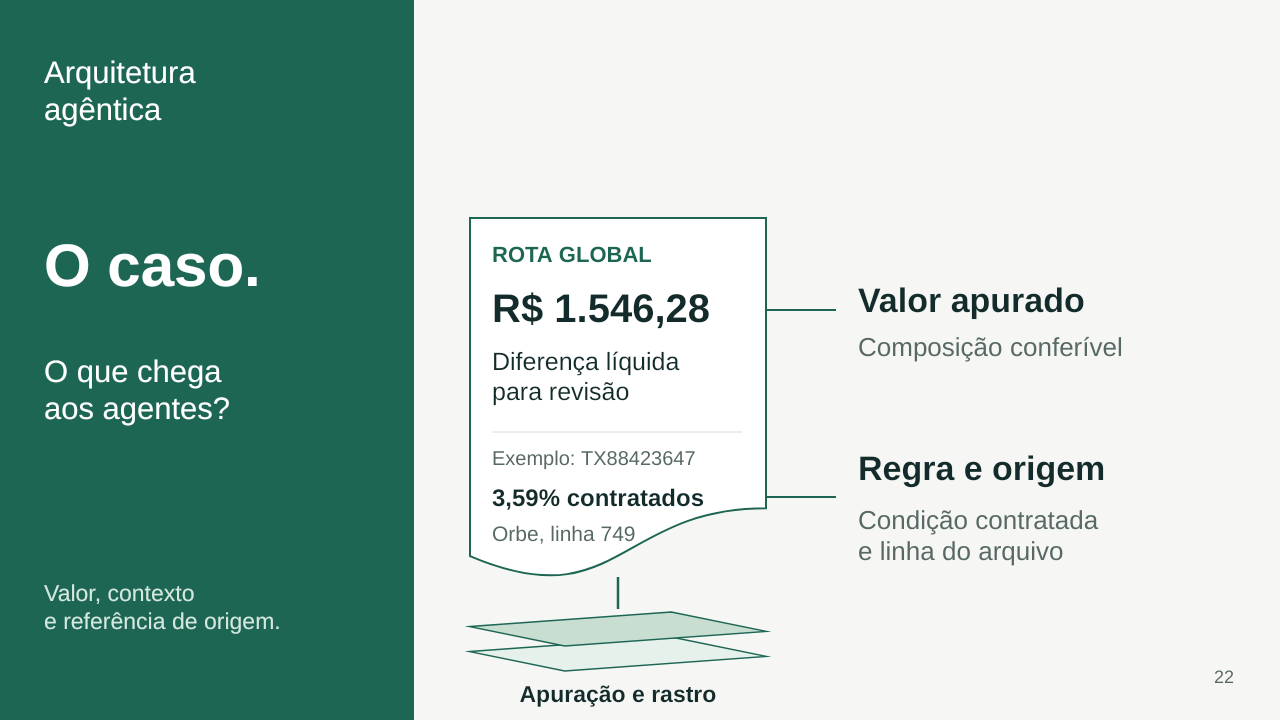
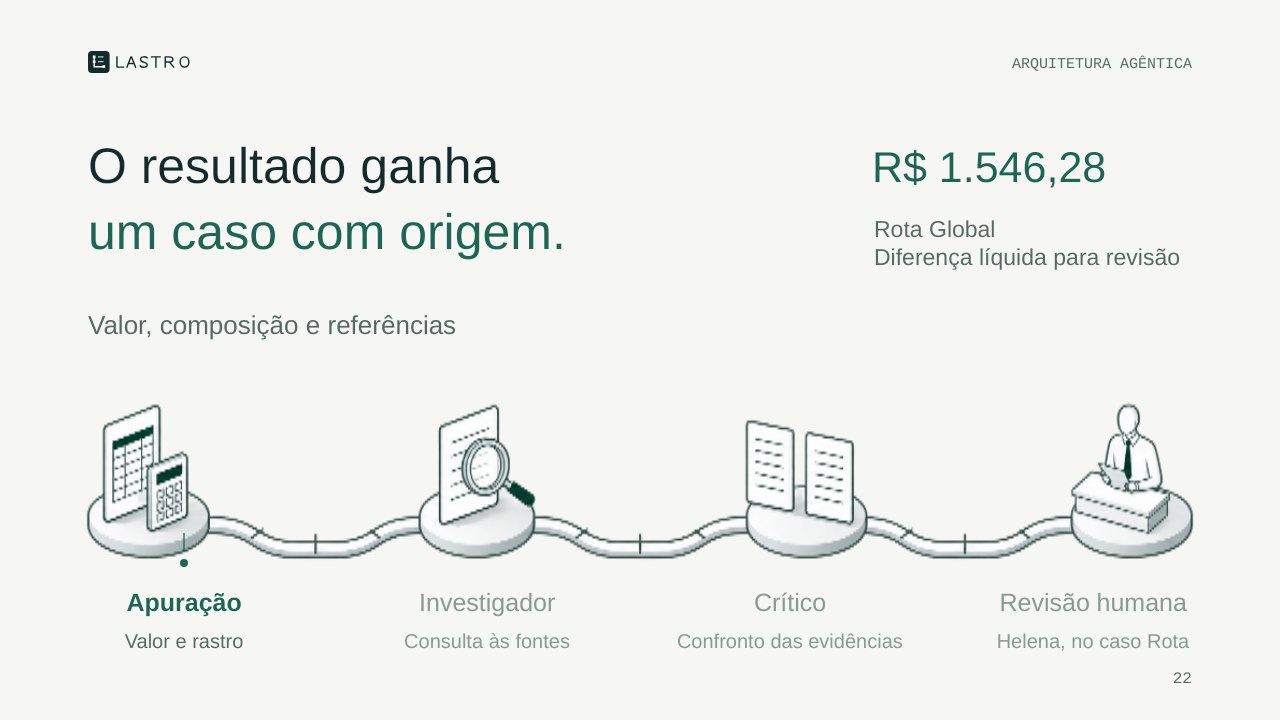
fix(apresentacao): aplicar composição editorial e abstrações visuais da Barte

diff --git a/docs/apresentacao/direcao-visual-canva.md b/docs/apresentacao/direcao-visual-canva.md
@@ -48,18 +48,45 @@ As referências Barte continuam sendo referências de comunicação, sem constit
 - **Cenas diferentes para perguntas diferentes.** Fotografia situa uma realidade; camadas explicam dependência; percurso acompanha transformação; captura de produto comprova comportamento. Não aplicar o mesmo fluxograma a todos os slides.
 - **Fonte e limite perto da evidência.** Valor preparado para revisão continua com esse qualificador. O destaque indica foco da apresentação, sem simular execução ou aprovação.
 
-## 5. Trecho de desenvolvimento revisado
+## 5. Correção visual após a rejeição da amostra
 
-Os avanços **21–25** recebem uma primeira aplicação desta direção. Eles conservam o total de 26 slides e as notas técnicas existentes. Os slides 0–20 ficam fora desta revisão, incluindo edições manuais no documento.
+A amostra registrada em `baa2d59` foi rejeitada pela Lorena. Ela concentrou peso numa faixa verde larga, usou títulos pesados, letras em círculos para os agentes e repetiu um cartão grande do caso. Esses recursos se afastaram da leitura editorial e do tratamento das ilustrações estudados na Barte. A presença de camadas e progressão, isoladamente, não resolveu a composição.
+
+A revisão seguinte mantém do Canva a continuidade da explicação. Para o tratamento visual, dá prioridade ao que foi documentado nas peças Barte: fundo claro, títulos regulares, destaque seletivo, linhas discretas e uma ilustração dominante. A faixa lateral e as letras em círculos foram retiradas. O valor da Rota aparece como evidência na entrada do caso, sem dominar todos os avanços.
+
+Os avanços **21–25** continuam formando o trecho de revisão. O total permanece em 26 slides e as notas técnicas são conservadas. Os slides 0–20 ficam fora da alteração automática, incluindo edições manuais no documento.
 
 | Avanço | Pergunta da fala | Representação |
 |---|---|---|
-| 21 | Em que a investigação se apoia? | Entrada explícita na arquitetura agêntica e planos de fontes, regras e apuração |
-| 22 | O que chega aos agentes? | Caso Rota Global ampliado, sustentado pela apuração e pelo rastro |
-| 23 | Como o investigador busca contexto? | Mesmo caso, investigador e consulta às fontes cadastradas |
-| 24 | Quem confronta a interpretação? | Acréscimo do crítico, com entradas de interpretação, evidências e mesmo pacote |
-| 25 | Quem decide? | Acréscimo da Helena como responsável pelo caso Rota, recebendo o parecer experimental |
+| 21 | Em que a investigação se apoia? | Título explícito de arquitetura agêntica, pilha ilustrada de fontes, regras e apuração, com legendas externas |
+| 22 | O que chega aos agentes? | Início do percurso, valor da Rota como evidência e identificação do resultado que ganha um caso |
+| 23 | Como o investigador busca contexto? | Foco na estação de investigação, com relação de consulta e retorno de evidências |
+| 24 | Quem confronta a interpretação? | Foco no crítico; legenda reúne mesmo caso, interpretação e evidências recebidas |
+| 25 | Quem decide? | Foco na revisão humana; Helena recebe caso e parecer, identificado como experimental |
 
-As figuras são diagramas conceituais editáveis. Não são capturas de interface nem registros de uma execução do modelo. O caso usa dados do pacote publicado em `b43e80e`; não demonstra cobrança enviada, recuperação realizada ou qualidade semântica validada da revisão agêntica. O crítico examina o material recebido, sem uma nova ligação de consulta às fontes.
+O percurso mantém as quatro funções visíveis como contexto, mudando o foco por avanço. A ligação ilustrada indica continuidade do caso. Os rótulos fixam o significado técnico; a imagem não documenta uma fila, protocolo ou chamada de API. A figura humana é uma representação genérica da função de revisão, sem retratar Helena.
 
-Fonte de reprodução: [arquitetura-cenas.mjs](slides/arquitetura-cenas.mjs). A aplicação visual deste trecho serve para revisar a direção antes de estendê-la ao restante do deck.
+O caso usa dados do pacote publicado em `b43e80e`; não demonstra cobrança enviada, recuperação realizada ou qualidade semântica validada da revisão agêntica. O crítico examina o material recebido, sem uma nova ligação de consulta às fontes.
+
+## 6. Especificação visual aplicada ao trecho
+
+| Elemento | Decisão no Lastro | Função transferida da referência |
+|---|---|---|
+| Palco | Canvas 1280 × 720, fundo `#F6F7F4`, margens principais de 88px | Distribuir texto e ilustração com espaço entre os grupos |
+| Marca e seção | Marca original de 105 × 22px; seção discreta de 15px | Situar o material sem competir com o argumento |
+| Título | Arial regular de 50px, duas linhas com 66px entre origens | Tese curta e leve, acompanhando a fala |
+| Destaque | Segunda linha em verde `#1E6654` | Ênfase seletiva com a identidade própria do Lastro |
+| Explicação | Texto de 24–27px em `#586964` | Apoio subordinado ao título e ao objeto visual |
+| Fundação | Pilha com espessura, separação e legendas externas | Tornar a dependência conceitual reconhecível |
+| Percurso | Ilustração compartilhada de quatro estações; ponto, legenda e relação em foco | Preservar orientação ao mudar a responsabilidade explicada |
+| Valor | R$ 1.546,28 na entrada do caso, com natureza e estado | Apresentar uma prova sem transformá-la em promessa de recuperação |
+
+Essas medidas são decisões do Lastro, não tokens extraídos ou uma reprodução do design system Barte. O reconhecimento da referência deve vir da forma de organizar a informação, sem copiar a marca, os desenhos ou as composições distintivas.
+
+## 7. Assets, edição e reprodução
+
+As duas ilustrações são originais, produzidas com a ferramenta integrada `image_gen.imagegen`. A fundação usa [fundacao-lastro-v3.png](slides/assets/fundacao-lastro-v3.png). O percurso usa [percurso-caso-v3b.png](slides/assets/percurso-caso-v3b.png), refinado para ganhar contraste na redução. Os [prompts completos](slides/assets/prompts-v3.json) registram a geração e o refinamento. Nenhuma imagem Barte foi fornecida à geração ou inserida como asset do Lastro.
+
+As ilustrações são raster. Títulos, explicações, valores, legendas, pontos de foco e vínculos de consulta são objetos nativos editáveis. O enquadramento conserva a proporção dos arquivos. O desenho não representa uma captura de produto nem uma execução do modelo.
+
+Fonte de reprodução da revisão atual: [arquitetura-editorial.mjs](slides/arquitetura-editorial.mjs). A versão anterior [arquitetura-cenas.mjs](slides/arquitetura-cenas.mjs) fica como estudo histórico, substituído por esta revisão. A composição ainda está em desenvolvimento, sem aprovação estética presumida.

diff --git a/docs/apresentacao/slides/README.md b/docs/apresentacao/slides/README.md
@@ -37,11 +37,11 @@ Versão visual editável com 26 slides, correspondentes aos avanços 0 a 25 do [
 
 ## Composição
 
-Canvas 1280 × 720, proporção 16:9. Fundo claro e verde vêm dos tokens do Lastro. A tipografia é Arial. Os diagramas, textos e conectores são objetos nativos editáveis da apresentação. A marca Lastro usa os SVGs originais do repositório, com proporção preservada.
+Canvas 1280 × 720, proporção 16:9. Fundo claro e verde vêm dos tokens do Lastro. A tipografia é Arial. A marca Lastro usa os SVGs originais do repositório, com proporção preservada. Textos e conectores são nativos editáveis. Nos avanços 21–25, a fundação e o percurso usam ilustrações raster originais, com legendas e vínculos editáveis sobrepostos.
 
-Os avanços 21–25 receberam uma revisão representativa a partir da apresentação Canva fornecida pela Lorena e dos estudos de abstrações da Barte. O campo verde conduz a fala, as camadas explicam a fundação e o mesmo caso Rota Global permanece no desenho enquanto entram investigador, crítico e Helena. A [direção visual](../direcao-visual-canva.md) distingue observação e adaptação. Os slides 0–20 preservam sua composição anterior e ainda não passaram por essa revisão.
+Os avanços 21–25 receberam uma nova correção após a rejeição da composição com faixa verde e letras em círculos. A revisão atual aplica fundo claro, títulos regulares, destaque seletivo e ilustrações maiores, a partir dos estudos Barte. A continuidade da explicação observada no Canva permanece no percurso entre apuração, investigador, crítico e revisão humana. A [direção visual](../direcao-visual-canva.md) registra critérios, medidas, prompts e limites. Os slides 0–20 preservam sua composição anterior e ainda não passaram por essa revisão.
 
-Os slides são estados sucessivos da composição. Há um tópico principal por avanço, com destaque no assunto novo. A apuração acrescenta uma frente de cada vez; a arquitetura mantém as posições e acrescenta pacote do caso, investigador, crítico e decisão humana. Esta versão não configura animação automática entre posições.
+Os slides são estados sucessivos da composição. Há um tópico principal por avanço, com destaque no assunto novo. A apuração acrescenta uma frente de cada vez. Na arquitetura, o percurso conserva as quatro estações como contexto e muda o foco e as relações de apoio. Esta versão não configura animação automática entre posições.
 
 **Asset pendente:** a identificação “Tarvo” é texto provisório. Substituir pela logo confirmada, preservando sua posição entre os avanços 1 e 2. Helena aparece pelo nome, sem retrato atribuído a uma pessoa real.
 
@@ -51,7 +51,7 @@ O prazo de oito dias úteis descreve o processo relatado no case. Os valores da 
 
 - A apuração produz os valores e o rastro que compõem o pacote do caso.
 - O investigador recebe o pacote e consulta fontes cadastradas por ferramentas de leitura.
-- O crítico recebe o mesmo pacote, a interpretação e as evidências recuperadas. O canal tracejado destaca a entrada do pacote; o crítico não recebe uma conexão de busca às fontes nesta implementação.
+- O crítico recebe o mesmo pacote, a interpretação e as evidências recuperadas. A legenda sobre a estação explicita essas entradas; o crítico não recebe uma conexão de busca às fontes nesta implementação.
 - O parecer segue para revisão e decisão de Helena ou Comercial, conforme a responsabilidade do caso. A investigação preserva os valores da apuração.
 - O destaque verde indica o tópico atual. O slide final explicita que o parecer é experimental e a decisão financeira cabe ao responsável.
 
@@ -80,6 +80,10 @@ Na revisão da arquitetura também foram espelhadas duas edições manuais do do
 
 [solucao-arquitetura.mjs](solucao-arquitetura.mjs) exporta `buildContinuation` para continuar na mesma sessão, depois dos dez slides de abertura. Executar em lotes consecutivos, aguardando cada chamada terminar: `[10, 11, 12, 13, 14]`, `[15, 16, 17, 18]`, `[19, 20, 21]` e `[22, 23, 24, 25]`. Usar `input.indices` para o lote e, no primeiro, `input.logoPath` apontando para `web/public/brand/lastro-logo.svg`. O callback preserva qualquer slide existente e recusa lacunas de numeração. Reparos posteriores usam os IDs inspecionados da mesma apresentação.
 
-[arquitetura-cenas.mjs](arquitetura-cenas.mjs) exporta `reviseArchitectureScenes`, a revisão dos avanços 21–25 no documento existente. O callback recebe `input.indices`, valida os IDs dos slides e substitui apenas suas formas, conservando notas e quantidade de slides. Executar em lotes consecutivos `[21, 22, 23]` e `[24, 25]`, sempre na mesma sessão. Os IDs são específicos dessa apresentação: se a ordem mudar ou surgirem imagens, reinspecionar antes de adaptar a validação. Não aplicar esse callback a outro deck sem revisão. A fonte anterior continua registrada no histórico.
+[arquitetura-editorial.mjs](arquitetura-editorial.mjs) exporta `reviseEditorialArchitecture`, a correção visual atual dos avanços 21–25. Passar `input.indices` e `input.logoPath` apontando para a marca original do Lastro. Executar em lotes pequenos, aguardando cada conclusão, sempre na sessão existente. O callback valida IDs e preserva os demais slides e suas notas. Imagens externas a esta revisão interrompem a substituição para reinspeção. Os IDs são específicos desse documento; adaptar a validação somente depois de inspecionar outro deck.
+
+Os PNGs originais estão em `assets/`, com [prompts completos](assets/prompts-v3.json). Na sessão, são incorporados de forma autocontida em um elemento SVG para manter os bytes disponíveis após reabrir a apresentação. Isso não transforma o conteúdo em vetor. Não há dependência de arquivos remotos para renderizar as ilustrações. Os objetos textuais continuam editáveis.
+
+[arquitetura-cenas.mjs](arquitetura-cenas.mjs) registra a amostra anterior, rejeitada e substituída. Não deve ser usado para restaurar o visual atual.
 
 As imagens em `previews/` são capturas renderizadas da apresentação editável. Servem à revisão visual no repositório e precisam ser atualizadas quando o documento mudar.

diff --git a/docs/apresentacao/referencias.md b/docs/apresentacao/referencias.md
@@ -42,11 +42,11 @@ O [roteiro](roteiro.md) contém a fala e a sequência de execução. A logo da T
 
 A apresentação Canva **Sprint 5** acrescenta uma referência direta de como a Lorena prefere construir uma explicação. A [direção visual documentada](direcao-visual-canva.md) registra os exemplos por página: cenário que permanece enquanto recebe informação, perguntas antes dos mecanismos, desenhos amplos para conceitos técnicos e associações espaciais entre abordagem e algoritmos. A inspeção incluiu a visão geral das 41 páginas e cenas ampliadas do problema e da explicação técnica.
 
-Essa referência orienta ritmo, hierarquia e composição. Os estudos da Barte orientam a escolha da abstração técnica adequada. A primeira aplicação conjunta refaz os avanços 21–25 com uma entrada de capítulo, camadas como fundamento e o mesmo caso Rota Global entre investigação, crítica e decisão. O restante do deck ainda precisa passar por essa revisão de direção.
+Essa referência orienta a continuidade da explicação. A amostra com faixa verde larga e letras em círculos foi rejeitada pela Lorena. A correção atual dos avanços 21–25 dá prioridade à leitura editorial estudada na Barte: fundo claro, título regular, destaque seletivo, ilustração dominante e relações discretas. O restante do deck ainda precisa passar por essa revisão de direção. Não se presume aprovação estética da nova versão.
 
 ## Aplicação à sequência da arquitetura
 
-Nos slides 21 a 25, a adaptação combina a separação entre fontes e decisão do case Comp, a fundação em camadas e a permanência do objeto de trabalho do case Sallve. A construção acumulativa e o contraste entre campos da apresentação Canva ajudam a conduzir a fala. A arquitetura recebe um título explícito antes da construção. Cada avanço acrescenta uma responsabilidade ao mesmo caso.
+Nos slides 21 a 25, a adaptação combina a separação entre fontes e decisão do case Comp, a fundação em camadas e o percurso por estações do case Sallve. O Canva ajuda a preservar a continuidade da fala. A arquitetura recebe um título explícito antes da construção. O percurso mantém as responsabilidades como contexto, e cada avanço destaca uma delas com o vínculo que precisa ser explicado. As ilustrações são originais, com a identidade do Lastro; os estudos Barte não são inseridos como assets do produto.
 
 | Avanço | Elemento revelado | Associação que deve ficar clara |
 |---|---|---|
